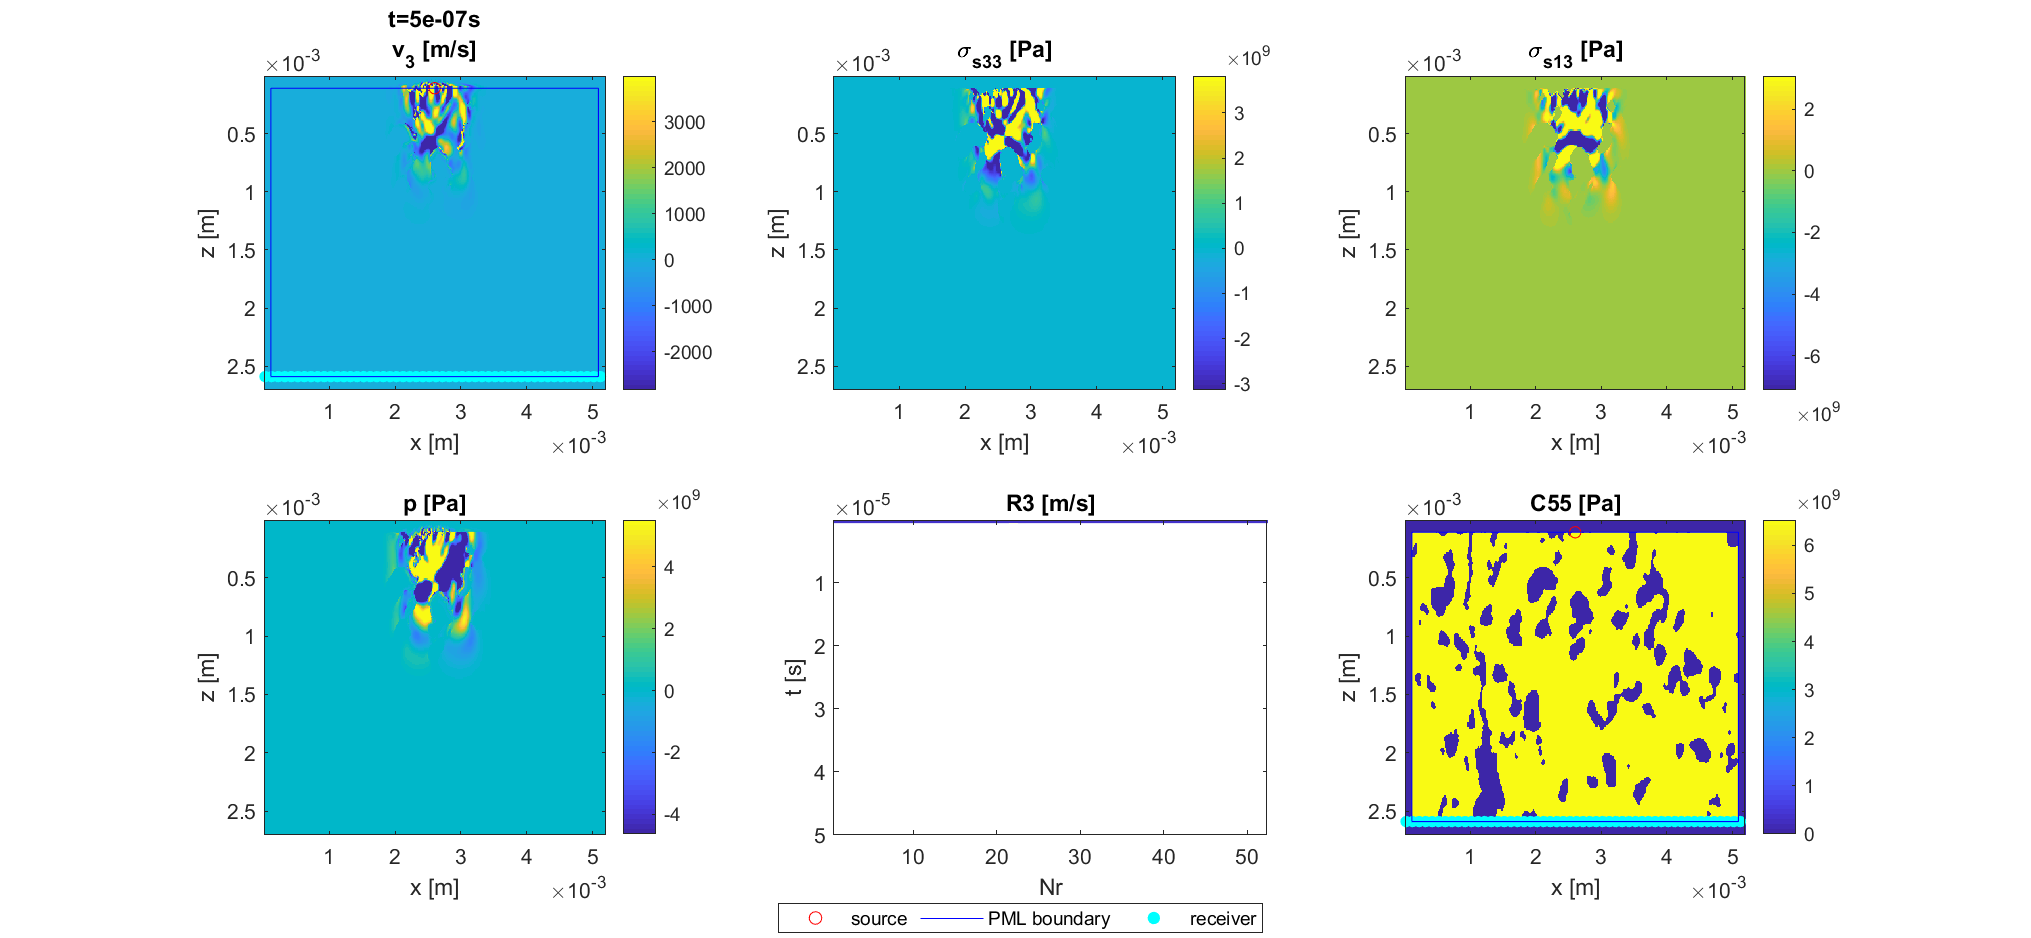
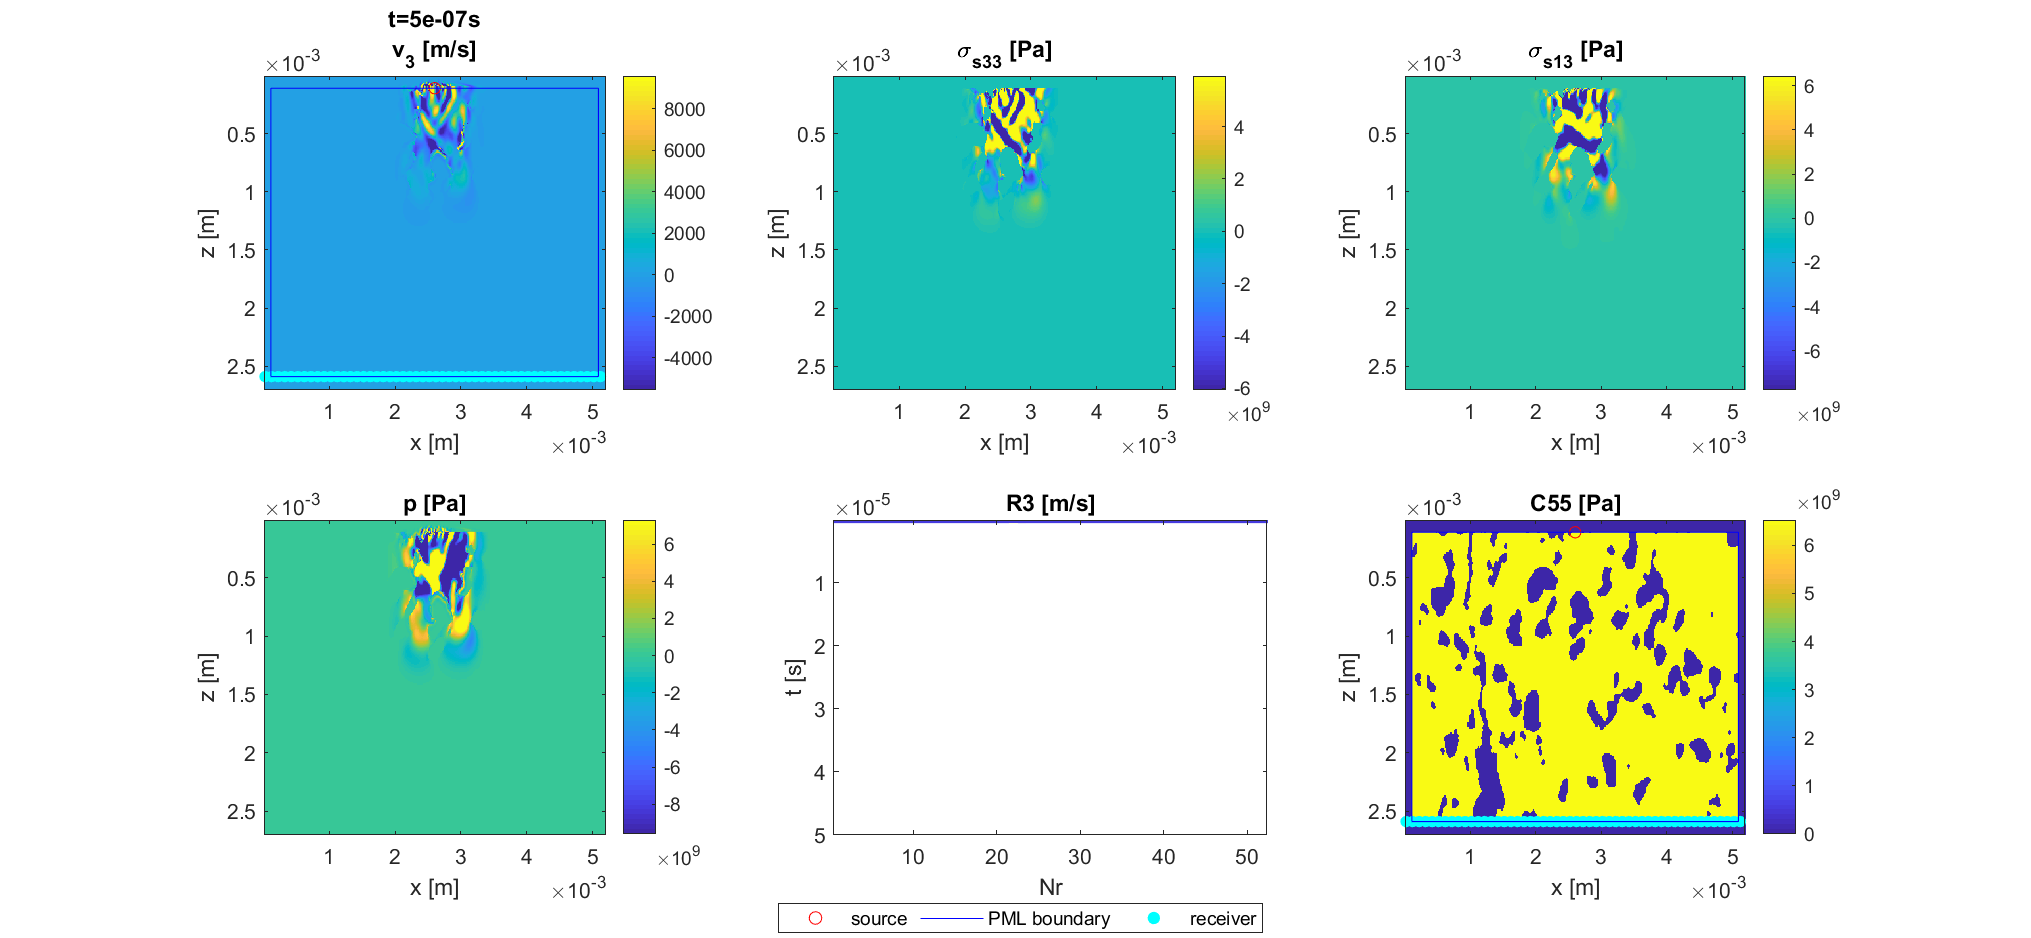
fix

diff --git a/rock_sample_Scholte2.m b/rock_sample_Scholte2.m
@@ -22,7 +22,7 @@ fluid=find(A==0);
 dt=10^-9;
 dx=10^-5;
 dz=10^-5;
-nt=5000*10;
+nt=4*10^5;
 nx=size(A,1);
 nz=size(A,2);
 
@@ -131,7 +131,7 @@ src3=src1;
 src3=1*[singles];
 
 % source type. 'D' for directional source. 'P' for P-source.
-source_type='D';
+source_type='P';
 
 % point interval in time steps
 plot_interval=500;
